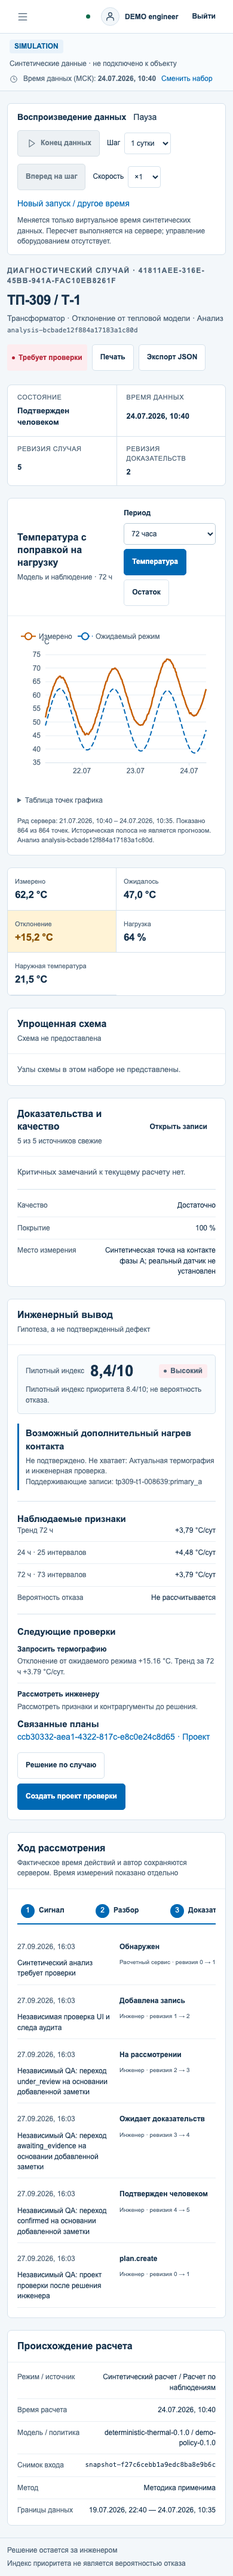
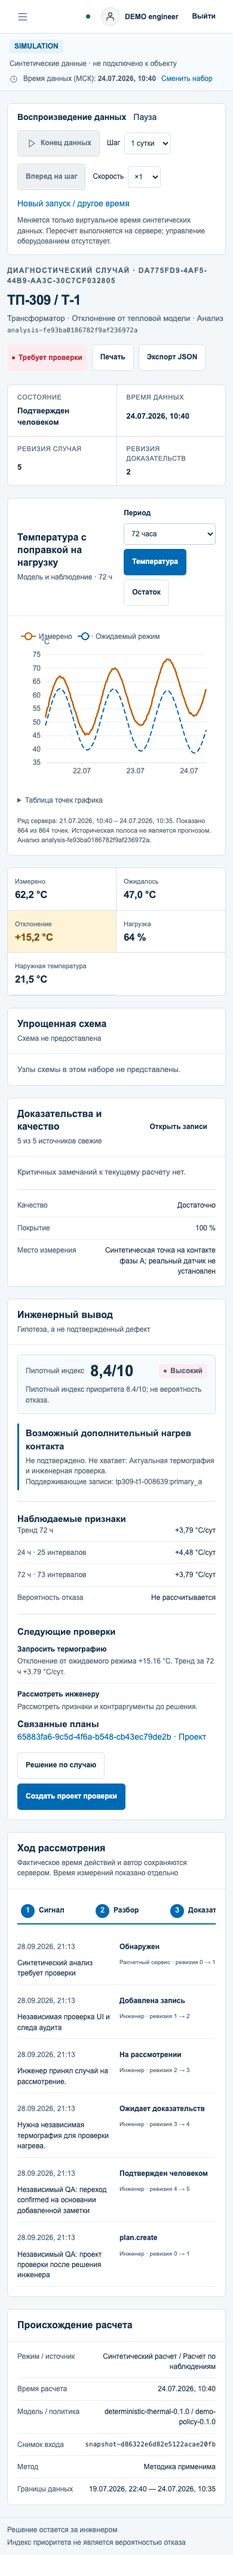
Remove repeated input from initial case review steps

diff --git a/docs/animation/rehearsal/index.html b/docs/animation/rehearsal/index.html
@@ -113,43 +113,30 @@ const scenes=[
     "seconds": 10
   },
   {
-    "name": "Принять случай в работу",
+    "name": "Взять на рассмотрение",
     "role": "engineer",
-    "screen": "decision",
-    "button": "Записать решение",
-    "fields": [
-      [
-        "Новое состояние",
-        "На рассмотрении"
-      ],
-      [
-        "Основание",
-        "Учебный разбор ТП-177: проверяю отклонение температуры и качество данных. Дефект пока не подтверждаю."
-      ]
-    ],
+    "screen": "case",
+    "button": "Взять на рассмотрение",
+    "fields": [],
     "after": "На рассмотрении",
-    "say": "Это отдельное решение человека. Оно сохраняется с основанием и автором.",
-    "where": "Карточка случая → Инженерный вывод → Решение по случаю",
+    "say": "Одно нажатие фиксирует начало разбора, автора и время. Повторно вводить основание не нужно.",
+    "where": "Карточка случая → Инженерный вывод → Взять на рассмотрение",
     "seconds": 12
   },
   {
-    "name": "Запросить подтверждение",
+    "name": "Указать недостающие материалы",
     "role": "engineer",
     "screen": "decision",
-    "button": "Записать решение",
+    "button": "Перевести в ожидание",
     "fields": [
       [
-        "Новое состояние",
-        "Ожидает доказательств"
-      ],
-      [
-        "Основание",
-        "Для учебного разбора нужна независимая проверка. Реальных измерений здесь нет."
+        "Какие материалы нужны и зачем",
+        "Нужна независимая термография контакта, чтобы проверить дополнительный нагрев. Реальных измерений в демонстрации нет."
       ]
     ],
     "after": "Ожидает доказательств",
-    "say": "Это отдельное решение человека. Оно сохраняется с основанием и автором.",
-    "where": "Карточка случая → Инженерный вывод → Решение по случаю",
+    "say": "Один раз указываю недостающие материалы. Система сохраняет причину ожидания, но не отправляет запрос исполнителю.",
+    "where": "Карточка случая → Инженерный вывод → Указать недостающие материалы",
     "seconds": 12
   },
   {
@@ -698,7 +685,7 @@ function draw(canvas,n,w=1280,sd=seed){n=Math.round(clamp(n,0,TOTAL-1));const in
  let target={x:760,y:570};const form=['decision','create','edit','evidence','result','planDialog','login','scenario'].includes(s.screen);
  if(s.screen==='terminal'){box(c,180,192,660,378,palette.nav);txt(c,'ТЕРМИНАЛ',200,220,14,'#b7d4e8',true);wrap(c,s.fields[0][1].slice(0,Math.ceil(s.fields[0][1].length*clamp(t/.68))),200,264,610,20,'#fff',10);target=button(c,'Enter',690,588,130,t>.72);}
  else if(s.screen==='docker'){txt(c,'Docker Desktop',200,226,28,palette.ink,true);box(c,220,277,580,185,'#f3f7fa',palette.border);txt(c,done?'Engine running':t<.2?'Откройте приложение':'Запуск движка…',250,338,27,done?palette.green:palette.blue,true);box(c,250,380,510,6,palette.border);box(c,250,380,510*ease(t/.8),6,done?palette.green:palette.blue);target=button(c,'Открыть Docker Desktop',460,507,300,t>.72);}
- else if(form){const title=s.screen==='evidence'?'Доказательства · Добавить заметку':s.screen==='decision'?'Решение по случаю':s.screen==='result'?'Записать результат проверки':s.screen==='create'?'Проект проверочных мероприятий':s.screen==='edit'?'Редактировать проект':s.screen==='login'?'Вход в демонстрационный контур':s.screen==='scenario'?'Синтетический расчет':s.where.split(' → ').at(-1);
+ else if(form){const title=s.screen==='evidence'?'Доказательства · Добавить заметку':s.screen==='decision'?(s.name==='Указать недостающие материалы'?s.name:'Решение по случаю'):s.screen==='result'?'Записать результат проверки':s.screen==='create'?'Проект проверочных мероприятий':s.screen==='edit'?'Редактировать проект':s.screen==='login'?'Вход в демонстрационный контур':s.screen==='scenario'?'Синтетический расчет':s.where.split(' → ').at(-1);
  box(c,180,190,660,435,'#fff',palette.border);wrap(c,title,200,220,610,21,palette.ink,2);let y=251;
  const rows=s.fields,available=286,unit=Math.min(132,available/Math.max(1,rows.length));
  rows.forEach(([label,value],j)=>{txt(c,label,200,y,14,palette.muted,true);const isChoice=value.startsWith('☑'),progress=clamp((t-.12-j*.10)/.38),visible=value.slice(0,Math.ceil(value.length*progress));box(c,200,y+10,620,unit-29,isChoice?'#edf4fa':'#f8fafc',palette.border);wrap(c,visible,212,y+33,593,16,palette.ink,Math.max(1,Math.floor((unit-36)/21.6)));y+=unit;});
@@ -708,7 +695,7 @@ function draw(canvas,n,w=1280,sd=seed){n=Math.round(clamp(n,0,TOTAL-1));const in
  else if(s.screen==='viewer'){txt(c,'План проверки · ТП-177',185,220,25,palette.ink,true);txt(c,'На согласовании',185,255,18);box(c,185,280,650,210,'#f8fafc',palette.border);txt(c,'Шаги проверки',205,311,19,palette.ink,true);txt(c,'1. Запросить термографию',205,355,18);txt(c,'2. Рассмотреть инженеру',205,394,18);txt(c,'Кнопка «Согласовать» отсутствует',205,447,19,palette.muted);target={x:808,y:129};}
  else if(s.screen==='history'){txt(c,'Ход рассмотрения',185,221,26,palette.ink,true);['Инженер · На рассмотрении','Инженер · Добавлена запись','Согласующий · Согласован','Исполнитель · Записан результат шага','Согласующий · Выполнен','Согласующий · Закрыт'].forEach((v,i)=>{box(c,187,248+i*49,646,40,i===5&&done?'#e7f5ed':'#f3f7fa');txt(c,v,200,275+i*49,16);});target={x:736,y:514};}
  else{txt(c,'ТП-177 / Т-1',182,216,26,palette.ink,true);txt(c,'Диагностический случай',182,240,14,palette.muted);box(c,180,262,350,241,'#f8fafc',palette.border);txt(c,'Температура с поправкой',194,285,16,palette.ink,true);txt(c,'на нагрузку',194,307,16,palette.ink,true);for(let k=0;k<2;k++){c.beginPath();for(let x=0;x<=298;x+=3){let y=382+Math.sin(x/38)*29+k*31;c.lineTo(200+x,y);}c.strokeStyle=k?palette.blue:'#c65d00';c.lineWidth=2;c.stroke();}txt(c,'Схематичный график',195,473,12,palette.muted);
- box(c,550,262,289,140,'#fff',palette.border);txt(c,'Доказательства и качество',563,288,16,palette.ink,true);const ev=button(c,'Открыть записи',566,341,255,s.button==='Открыть записи'&&t>.72);box(c,550,418,289,154,'#fff',palette.border);txt(c,'Инженерный вывод',564,445,18,palette.ink,true);wrap(c,'Гипотеза, а не автоматически подтвержденный дефект',564,476,254,15,palette.muted,3);const dec=button(c,'Решение по случаю',566,525,255);
+ box(c,550,262,289,140,'#fff',palette.border);txt(c,'Доказательства и качество',563,288,16,palette.ink,true);const ev=button(c,'Открыть записи',566,341,255,s.button==='Открыть записи'&&t>.72);box(c,550,418,289,154,'#fff',palette.border);txt(c,'Инженерный вывод',564,445,18,palette.ink,true);wrap(c,'Гипотеза, а не автоматически подтвержденный дефект',564,476,254,15,palette.muted,3);const dec=button(c,s.button==='Взять на рассмотрение'?'Взять на рассмотрение':'Решение по случаю',566,525,255);
  if(s.button==='Открыть записи')target=ev;else if(s.button==='Экспорт JSON')target=button(c,'Экспорт JSON',666,194,173,t>.72);else if(s.button==='Остаток')target=button(c,'Остаток',359,523,170,t>.72);else target=dec;}
  if(done){box(c,180,590,660,47,'#e7f5ed');wrap(c,'✓ '+s.after,195,619,630,17,palette.green,1);}
  const from={x:350,y:631},p={x:from.x+(target.x-from.x)*ease(t/.68),y:from.y+(target.y-from.y)*ease(t/.68)};if(!done)cursor(c,p,t);

diff --git a/apps/web/src/features/case.tsx b/apps/web/src/features/case.tsx
@@ -58,20 +58,32 @@ function CaseDecision({ snapshot, identity, run, refresh }: { snapshot: Snapshot
   const [pending, setPending] = useState(false);
   const [failure, setFailure] = useState<ApiFailure | null>(null);
   const allowed = identity && snapshot.analysis.mode === 'simulation' && (identity.permissions.includes('case.review') || identity.permissions.includes('case.confirm') || identity.permissions.includes('case.close'));
-  async function submit(event: React.FormEvent) {
-    event.preventDefault(); if (!identity) return;
+  const taking = snapshot.case.state === 'detected';
+  const requesting = snapshot.case.state === 'under_review';
+  const title = requesting ? 'Указать недостающие материалы' : 'Решение по случаю';
+  async function commit(next: S['CaseState'], explanation: string) {
+    if (!identity || pending) return;
     setPending(true); setFailure(null);
     try {
       expectData(await api.POST('/api/v1/cases/{id}/decisions', { params: { path: { id: snapshot.case.caseId }, query: { scenarioRunId: run }, header: mutationHeaders(identity) }, body: {
-        targetState: target, expectedRevision: snapshot.case.revision, evidenceRevision: snapshot.case.evidenceRevision,
+        targetState: next, expectedRevision: snapshot.case.revision, evidenceRevision: snapshot.case.evidenceRevision,
         evidenceIds: selectedEvidence,
-        reason, outcome: target === 'closed' || target === 'not_confirmed' || target === 'sensor_issue' ? reason : null,
+        reason: explanation, outcome: next === 'closed' || next === 'not_confirmed' || next === 'sensor_issue' ? explanation : null,
       } }));
       setOpen(false); setReason(''); refresh();
     } catch (error) { setFailure(error instanceof ApiFailure ? error : new ApiFailure(0, 'Нет связи с сервером.')); if (error instanceof ApiFailure && error.status === 409) refresh(); }
     finally { setPending(false); }
   }
-  return <>{allowed && targets.length > 0 && <Button onClick={() => setOpen(true)}>Решение по случаю</Button>}<Dialog open={open} onClose={() => setOpen(false)} title="Решение по случаю"><form className="feature-form" onSubmit={submit}><p className="feature-muted">Текущая ревизия {snapshot.case.revision}, доказательства {snapshot.case.evidenceRevision}. Сервер проверит полномочия и актуальность.</p><label className="field">Новое состояние<select value={target} onChange={event => setTarget(event.target.value as S['CaseState'])}>{targets.map(item => <option key={item} value={item}>{stateLabel[item]}</option>)}</select></label><label className="field">Основание<textarea value={reason} onChange={event => setReason(event.target.value)} required /></label><fieldset className="feature-evidence-choice"><legend>Записи, на которых основано решение</legend>{snapshot.evidence.length === 0 ? <p>Сначала добавьте запись в разделе доказательств.</p> : snapshot.evidence.map(item => <label key={item.evidenceId}><input type="checkbox" checked={selectedEvidence.includes(item.evidenceId)} onChange={event => setSelectedEvidence(previous => event.target.checked ? [...previous, item.evidenceId] : previous.filter(id => id !== item.evidenceId))} />{item.text} · {date(item.observedAt)}</label>)}</fieldset>{failure && <ErrorState message={failure.status === 409 ? 'Случай изменился. Данные обновляются; проверьте ревизию.' : failure.status === 403 ? 'Нет права на это решение.' : failure.message} requestId={failure.requestId} />}<div className="dialog-actions"><Button type="button" onClick={() => setOpen(false)}>Отмена</Button><Button variant="primary" disabled={pending}>{pending ? 'Сохраняем...' : 'Записать решение'}</Button></div></form></Dialog></>;
+  const error = failure && <ErrorState message={failure.status === 409 ? 'Случай изменился. Данные обновляются; проверьте ревизию.' : failure.status === 403 ? 'Нет права на это решение.' : failure.message} requestId={failure.requestId} />;
+  return <>{allowed && targets.length > 0 && <Button disabled={pending} onClick={() => taking ? void commit('under_review', 'Инженер принял случай на рассмотрение.') : setOpen(true)}>{pending ? 'Сохраняем...' : taking ? 'Взять на рассмотрение' : title}</Button>}
+    {taking && error}
+    <Dialog open={open} onClose={() => setOpen(false)} title={title}><form className="feature-form" onSubmit={event => { event.preventDefault(); void commit(requesting ? 'awaiting_evidence' : target, reason); }}>
+      {requesting ? <p className="feature-muted">Укажите, каких материалов не хватает для вывода. Случай перейдет в ожидание доказательств. Запрос исполнителю автоматически не отправляется.</p> : <><p className="feature-muted">Сервер проверит полномочия и актуальность данных.</p><label className="field">Новое состояние<select value={target} onChange={event => setTarget(event.target.value as S['CaseState'])}>{targets.map(item => <option key={item} value={item}>{stateLabel[item]}</option>)}</select></label></>}
+      <label className="field">{requesting ? 'Какие материалы нужны и зачем' : 'Основание'}<textarea value={reason} onChange={event => setReason(event.target.value)} required /></label>
+      {!requesting && <fieldset className="feature-evidence-choice"><legend>Записи, на которых основано решение</legend>{snapshot.evidence.length === 0 ? <p>Сначала добавьте запись в разделе доказательств.</p> : snapshot.evidence.map(item => <label key={item.evidenceId}><input type="checkbox" checked={selectedEvidence.includes(item.evidenceId)} onChange={event => setSelectedEvidence(previous => event.target.checked ? [...previous, item.evidenceId] : previous.filter(id => id !== item.evidenceId))} />{item.text} · {date(item.observedAt)}</label>)}</fieldset>}
+      {error}<div className="dialog-actions"><Button type="button" onClick={() => setOpen(false)}>Отмена</Button><Button variant="primary" disabled={pending}>{pending ? 'Сохраняем...' : requesting ? 'Перевести в ожидание' : 'Записать решение'}</Button></div>
+    </form></Dialog></>;
+
 }
 
 function CreatePlan({ snapshot, identity, run }: { snapshot: Snapshot; identity: Identity | null; run: string }) {

diff --git a/tests/live/rehearsal-workflow.spec.ts b/tests/live/rehearsal-workflow.spec.ts
@@ -15,6 +15,9 @@ test('rehearsal: new unverified notes support step results without bypassing hum
  }
  async function decision(state:string,proof?:string){
   console.log('Состояние случая:',state);
+  if(state==='На рассмотрении') { await page.getByRole('button',{name:'Взять на рассмотрение',exact:true}).click(); await expect(page.getByRole('dialog')).toHaveCount(0); await expect(page.locator('.feature-case-meta')).toContainText(state); return; }
+  if(state==='Ожидает доказательств') { await page.getByRole('button',{name:'Указать недостающие материалы',exact:true}).click(); const d=page.getByRole('dialog',{name:'Указать недостающие материалы'}); await d.getByLabel('Какие материалы нужны и зачем').fill('Нужна термография для проверки дополнительного нагрева.'); await d.getByRole('button',{name:'Перевести в ожидание'}).click(); await expect(d).not.toBeVisible(); await expect(page.locator('.feature-case-meta')).toContainText(state); return; }
+
   await page.getByRole('button',{name:'Решение по случаю',exact:true}).click();const d=page.getByRole('dialog',{name:'Решение по случаю',exact:true});
   await d.getByLabel('Новое состояние').selectOption({label:state});await d.getByLabel('Основание',{exact:true}).fill('Явное решение человека в учебной репетиции: '+state);
   if(proof)await d.locator('label').filter({hasText:proof}).getByRole('checkbox').check();
@@ -24,7 +27,7 @@ test('rehearsal: new unverified notes support step results without bypassing hum
  async function planAction(name:string){console.log('План:',name);await page.getByRole('button',{name,exact:true}).click();const d=page.getByRole('dialog',{name,exact:true});await d.getByLabel('Основание',{exact:true}).fill('Учебная репетиция: '+name);await d.getByRole('button',{name:'Записать решение',exact:true}).click();await expect(d).not.toBeVisible();}
  await page.goto('/?choose=1');await login('engineer');
  const card=page.locator('.panel').filter({has:page.getByLabel('Время среза')});await card.getByLabel('Время среза').selectOption('last');await card.getByRole('button',{name:'Открыть сценарий'}).click();
- await expect(page.getByRole('link',{name:/ТП-177/})).toBeVisible({timeout:90000});await page.getByRole('link',{name:/ТП-177/}).click();await expect(page.getByRole('button',{name:'Решение по случаю'})).toBeVisible();const caseUrl=page.url();
+ await expect(page.getByRole('link',{name:/ТП-177/})).toBeVisible({timeout:90000});await page.getByRole('link',{name:/ТП-177/}).click();await expect(page.getByRole('button',{name:'Взять на рассмотрение'})).toBeVisible();const caseUrl=page.url();
  await decision('На рассмотрении');await decision('Ожидает доказательств');await evidence(note);await decision('Подтвержден человеком',note);
  await page.getByRole('button',{name:'Создать проект проверки'}).click();const create=page.getByRole('dialog',{name:'Проект проверочных мероприятий'});await create.getByLabel('Основание проекта').fill('Учебный план: реальных работ не выполняем');await create.getByRole('button',{name:'Создать проект',exact:true}).click();await expect(page.getByRole('heading',{name:/План проверки/})).toBeVisible();const planUrl=page.url();
  await planAction('Передать на согласование');await login('viewer');await expect(page.getByRole('button',{name:'Согласовать',exact:true})).toHaveCount(0);await login('approver');await planAction('Согласовать');

diff --git a/docs/runbook/REHEARSAL.md b/docs/runbook/REHEARSAL.md
@@ -28,26 +28,17 @@
 
 Говорить: «Нас интересует отклонение от ожидаемой температуры с учетом режима, а не сама высокая температура. Индекс приоритета не является вероятностью отказа».
 
-## 3. Где указать основание рассмотрения
+## 3. Начать разбор и указать недостающие материалы
 
-На широком экране справа найти «Инженерный вывод». Внизу этого блока, после «Следующие проверки», расположена кнопка «Решение по случаю». На узком экране блок будет ниже графика.
+В блоке «Инженерный вывод» нажать «Взять на рассмотрение». Состояние станет «На рассмотрении»: автор и время сохраняются без отдельной формы и повторного ввода текста.
 
-1. Нажать «Решение по случаю».
-2. В диалоге «Новое состояние» выбрать «На рассмотрении».
-3. В поле «Основание» вставить:
+Если для вывода не хватает материалов:
 
-> Учебный разбор ТП-177. Анализ показывает отклонение измеренной температуры от ожидаемой. Требуется проверить качество исходных данных и независимое подтверждение. Дефект пока не подтверждаю.
+1. Нажать «Указать недостающие материалы».
+2. В поле «Какие материалы нужны и зачем» указать: `Нужна независимая термография контакта, чтобы проверить дополнительный нагрев. Реальных измерений в демонстрации нет.`
+3. Нажать «Перевести в ожидание». Состояние станет «Ожидает доказательств».
 
-4. Нажать «Записать решение».
-5. Проверить сверху: «Состояние: На рассмотрении».
-6. Еще раз «Решение по случаю» → «Новое состояние: Ожидает доказательств».
-7. «Основание»:
-
-> Для продолжения учебного разбора требуется независимая проверка. Запрашиваю подтверждающие материалы; реальных измерений и термограммы в демонстрации нет.
-
-8. Нажать «Записать решение».
-
-Говорить: «Я явно принимаю случай в работу и фиксирую, чего не хватает для вывода. Система сохраняет автора и основание решения».
+Это фиксация причины ожидания, а не отправка запроса исполнителю. Подтверждение дефекта остается отдельным решением с выбором доказательств.
 
 ## 4. Где добавить доказательство
 

diff --git a/handoffs/09-case-review-ux.md b/handoffs/09-case-review-ux.md
@@ -1,0 +1,9 @@
+# Упрощение начала рассмотрения, 28.09.2026
+
+По запросу пользователя убран повторный ввод в шагах 8–9 репетиции. «Взять на рассмотрение» одним нажатием отправляет явный переход detected→under_review с фиксированным описанием действия. Автор, время, права, expectedRevision, evidenceRevision и аудит сохраняются сервером. Это не подтверждение дефекта.
+
+Следующее действие названо «Указать недостающие материалы»: одно поле «Какие материалы нужны и зачем», кнопка «Перевести в ожидание». Нет повторного выбора единственного статуса или требования выбрать доказательство для объяснения его отсутствия. UI прямо говорит, что запрос исполнителю не отправляется. Confirm/close и их проверки доказательств не менялись. Контракты и допустимые переходы неизменны; обхода серверных проверок нет.
+
+Изменены case.tsx, сценарий/плеер репетиции и REHEARSAL.md, два браузерных теста и их артефакты. Встроенные scenes и scenes.json синхронизированы, обновленный overview-1 просмотрен визуально.
+
+Проверено: typecheck/lint/build passed; Docker web пересобран и запущен на localhost8080. Live rehearsal workflow 1 passed (10.4 s) до закрытия случая и завершения плана. Final QA targeted: late-period case/403/409/responsive и browser offline/reconnect 2 passed (17.4 s). Анимация: 38 сцен, 432 кадра, JS errors 0, deterministic true, mobileOverflow false. Полная численная и промышленная приемка повторно не проводилась, численное ядро не менялось.

diff --git a/docs/animation/rehearsal/README.md b/docs/animation/rehearsal/README.md
@@ -29,3 +29,5 @@ scenes.json дублирует встроенные данные для удоб
 MP4 и аудио не создавались. Промышленная диагностика или точность на реальном объекте не заявляются.
 
 Независимая проверка Luna завершена: после исправления маркировки выбора сценария существенных расхождений не найдено. Отдельно подтверждены разделение исходного наблюдения и синтетического протокола, последовательность ролей и читаемость полного плеера.
+
+Обновление 28.09.2026: шаг 8 принимает случай на рассмотрение одним нажатием без формы. Шаг 9 сохраняет описание недостающих материалов один раз; отправки запроса исполнителю нет. Сценарий и встроенные данные синхронизированы. Сквозная UI-проверка после изменения: 1 passed, 10.4 s, до закрытия случая.
